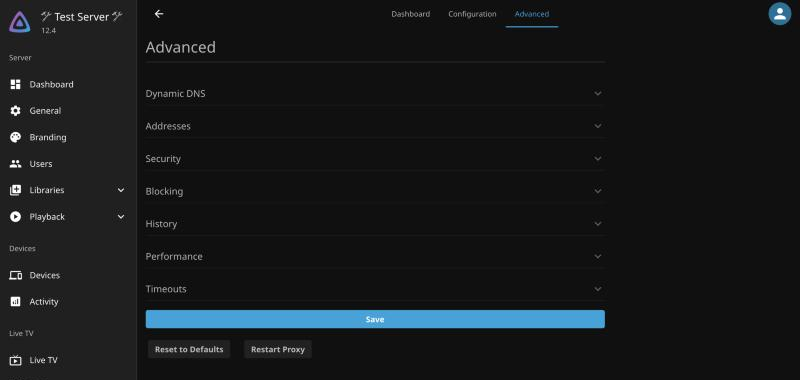
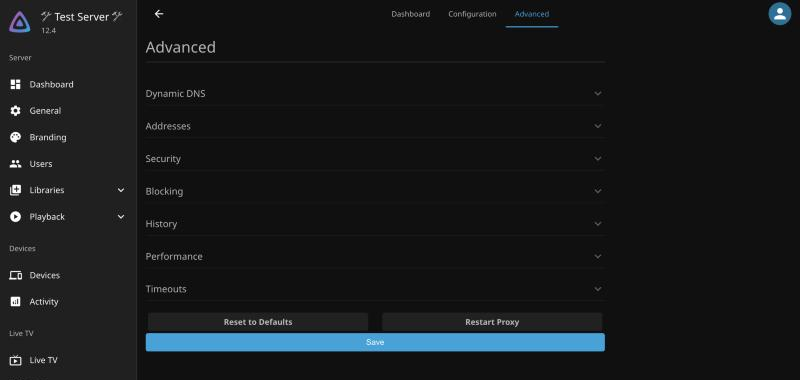
Save with Base's Save Bar, with its actions in one row above it, as the other plugins do

Changed region(s): [[0.1562, 0.8105, 0.7812, 0.9553]]

diff --git a/Jellyfin.Plugin.RemoteAccess/Configuration/remoteaccess_advanced.js b/Jellyfin.Plugin.RemoteAccess/Configuration/remoteaccess_advanced.js
@@ -1,7 +1,7 @@
 // remoteaccess_advanced.js
 // The Advanced tab: Dynamic DNS tuning, the record's finer settings, addresses, security, blocking, history and limits.
 
-import { createConfigPage, confirmDialog, createChipSelect, COUNTRY_CODES, WORLD } from './configurationpage?name=remoteaccess_jpkribs_shared.js';
+import { createConfigPage, confirmDialog, createChipSelect, createSaveBar, COUNTRY_CODES, WORLD } from './configurationpage?name=remoteaccess_jpkribs_shared.js';
 import { PLUGIN_ID, TABS, problemText, showText, loadProviders, primaryRecord, recordNames, otherAddresses, addressLines, saveProxyHostnames } from './configurationpage?name=remoteaccess_tabs.js';
 
 export default function (view) {
@@ -26,6 +26,8 @@ export default function (view) {
     var countryDatabaseLoaded = true;
     // The proxy settings as last loaded or saved, for the certificate request.
     var proxySettings = null;
+    // The Save Bar at the bottom of the page, built once in bind.
+    var saveBar = null;
     // The Dynamic DNS fine-tuning, saved through the DDNS configuration rather than the proxy settings. The form
     // as last loaded or saved, to tell whether it changed. Null until loaded.
     var raBaseline = null;
@@ -519,58 +521,55 @@ export default function (view) {
                 fillHostnames((results[1] && results[1].Hostnames) || [], names);
             });
         }).catch(function () {
-            Shared.setStatus('advancedStatus', 'Could not load settings.', true);
+            saveBar.setState('failed', 'Could not load the settings. Reload the page.');
         });
     }
 
+    // save
+    // The Save Bar's onSave. Turning on Only Through the Proxy can cut off whoever uses Jellyfin's own address, this
+    // page included, so it is confirmed first.
+    //
+    // Output
+    // [Promise]: Resolves once saved, or rejects with an Error whose message the Save Bar shows.
     function save() {
         // Without the saved values to compare against, every field would look changed and be written empty.
-        if (!settingsLoaded) {
-            Shared.setStatus('advancedStatus', 'The settings did not load. Reload the page before saving.', true, { timeout: 0 });
-            return;
-        }
+        if (!settingsLoaded) return Promise.reject(new Error('The settings did not load. Reload the page before saving.'));
 
-        // Turning this on can cut off whoever is using Jellyfin's own address, this page included, so it is confirmed.
         var current = read();
         var effective = function (v) { return v == null ? !!(defaults && defaults.JellyfinLoopbackOnly) : v; };
-        if (effective(current.JellyfinLoopbackOnly) && !effective(loaded.JellyfinLoopbackOnly)) {
-            confirmDialog('Turn on Only Through the Proxy? Everyone, at home too, reaches Jellyfin only through your Remote Access address, so apps and casting that use the server\'s own address stop working. Use Undo before disabling the plugin, and see Recovery in the documentation if you lose access.', { title: 'Only Through the Proxy', confirmText: 'Turn On' }).then(function (ok) {
-                if (ok) doSave();
-            });
-            return;
-        }
-
-        doSave();
+        if (!effective(current.JellyfinLoopbackOnly) || effective(loaded.JellyfinLoopbackOnly)) return doSave();
+        return confirmDialog('Turn on Only Through the Proxy? Everyone, at home too, reaches Jellyfin only through your Remote Access address, so apps and casting that use the server\'s own address stop working. Use Undo before disabling the plugin, and see Recovery in the documentation if you lose access.', { title: 'Only Through the Proxy', confirmText: 'Turn On' }).then(function (ok) {
+            if (!ok) throw new Error('Nothing was saved.');
+            return doSave();
+        });
     }
 
+    // doSave
+    // Saves the Dynamic DNS settings and the record first, so the proxy's addresses follow the record's names as now
+    // saved, then the proxy and history settings. Each goes to its own endpoint, so one failing never stops the other.
+    //
+    // Output
+    // [Promise]: Resolves once both saved, or rejects with an Error that names what was not saved.
     function doSave() {
-        var button = Shared.getEl('btnSaveAdvanced');
-        if (button.disabled) return;
-        button.disabled = true;
-        Shared.setStatus('advancedStatus', 'Saving…', false);
         var raChanged = raDirty() || recordDirty() || extraCount > 0;
         var before = [];
         var raError = '';
-        // The DDNS settings and the record save first, so the proxy's addresses follow the record's names as now
-        // saved. Each save goes to its own endpoint, so one failing never stops the other, and both are reported.
-        namesNow().then(function (names) {
+        return namesNow().then(function (names) {
             before = names;
             return saveDdns();
         }).then(function (error) {
             raError = error;
             return saveProxy(before);
         }).then(function (proxy) {
-            if (!raError) {
-                var done = proxy.ok || !raChanged ? proxy.text
-                    : 'The proxy settings were not saved. ' + proxy.text + ' The Dynamic DNS settings were saved.';
-                Shared.setStatus('advancedStatus', done, proxy.bad, proxy.keep ? { timeout: 0 } : undefined);
+            if (!raError && proxy.ok) {
+                saveBar.setDirty(false);
+                // A restart note or skipped history settings follow the saved line, once the Save Bar has drawn it.
+                if (proxy.keep) setTimeout(function () { saveBar.setState(proxy.bad ? 'failed' : 'saved', proxy.text); }, 0);
                 return;
             }
-            var text = (proxy.ok ? proxy.text : 'The proxy settings were not saved. ' + proxy.text) +
-                ' The Dynamic DNS settings were not saved. ' + raError;
-            Shared.setStatus('advancedStatus', text, true, { timeout: 0 });
-        }).then(function () {
-            button.disabled = false;
+            var text = !raError ? 'The proxy settings were not saved. ' + proxy.text + (raChanged ? ' The Dynamic DNS settings were saved.' : '')
+                : (proxy.ok ? proxy.text : 'The proxy settings were not saved. ' + proxy.text) + ' The Dynamic DNS settings were not saved. ' + raError;
+            throw new Error(text);
         });
     }
 
@@ -608,7 +607,7 @@ export default function (view) {
             // History settings that never loaded were not sent, so the page does not claim to have saved them.
             var skipped = !historyLoaded;
             loadHistory();
-            var text = 'Saved.' + (skipped ? ' The history settings did not load, so they were not saved.' : '') + (restartNote ? ' ' + restartNote : '');
+            var text = 'Changes saved.' + (skipped ? ' The history settings did not load, so they were not saved.' : '') + (restartNote ? ' ' + restartNote : '');
             return { ok: true, bad: skipped, keep: skipped || !!restartNote, text: text };
         }).catch(function (err) {
             return problemText(err, 'Save failed.').then(function (text) {
@@ -645,7 +644,11 @@ export default function (view) {
         Shared.getEl('countryPicker').appendChild(countries.element);
         Shared.getEl('advCountryMode').addEventListener('change', showCountryMode);
         Shared.getEl('advBlockWithoutDatabase').addEventListener('change', showCountryMode);
-        Shared.getEl('btnSaveAdvanced').addEventListener('click', save);
+        saveBar = createSaveBar({ fill: true, form: Shared.getEl('RemoteAccessAdvancedForm'), onSave: save });
+        Shared.getEl('saveBar').appendChild(saveBar.element);
+        ['input', 'change'].forEach(function (type) {
+            view.addEventListener(type, function () { saveBar.setDirty(isDirty()); });
+        });
         Shared.getEl('btnResetAdvanced').addEventListener('click', reset);
         Shared.getEl('btnRestartProxy').addEventListener('click', restartProxy);
         Shared.getEl('locationDetail').addEventListener('change', showLocationNote);

diff --git a/Jellyfin.Plugin.RemoteAccess/Configuration/remoteaccess_configuration.js b/Jellyfin.Plugin.RemoteAccess/Configuration/remoteaccess_configuration.js
@@ -1,7 +1,7 @@
 // remoteaccess_configuration.js
 // The Configuration tab, a Setup Checklist from turning the proxy on to a test from outside.
 
-import { createConfigPage, confirmDialog, createSetupChecklist } from './configurationpage?name=remoteaccess_jpkribs_shared.js';
+import { createConfigPage, confirmDialog, createSetupChecklist, createSaveBar } from './configurationpage?name=remoteaccess_jpkribs_shared.js';
 import { PLUGIN_ID, TABS, problemText, showText, trustTheProxy, routerInstructionHtml, routerStateText, loadProviders, primaryRecord, readDdnsSecret, recordNames, saveProxyHostnames, stepState } from './configurationpage?name=remoteaccess_tabs.js';
 
 // The Configuration tab: a checklist from turning the proxy on to a test from outside. Each step holds only what
@@ -60,8 +60,9 @@ export default function (view) {
 
     var SECRET_IDS = ['recLogin', 'recPassword'];
     var CLEAR_BUTTONS = { recLogin: 'btnClearLogin', recPassword: 'btnClearPassword' };
-    // The Setup Checklist that holds the steps, built once in bind.
+    // The Setup Checklist that holds the steps, and the Save Bar under them, built once in bind.
     var checklist = null;
+    var saveBar = null;
 
     // The plugin's own config endpoints send a kept marker in place of a stored credential and encrypt a typed one
     // on save, so secrets never reach the browser.
@@ -439,24 +440,27 @@ export default function (view) {
     }
 
     function setSaving(on) {
-        ['btnSave', 'btnRunNow'].forEach(function (id) { Shared.getEl(id).disabled = on; });
+        Shared.getEl('btnRunNow').disabled = on;
     }
 
     // Saves every step: the record first, when it changed, then the proxy settings onto the freshest ones so
     // changes made on the other tabs are kept. The proxy answers on the record's names and the other addresses.
+    // save
+    // Saves every step, the Save Bar's onSave. The record goes first, when it changed, then the proxy settings onto
+    // the freshest ones so changes made on the other tabs are kept. The proxy answers on the record's names and the
+    // other addresses.
+    //
+    // Output
+    // [Promise]: Resolves once saved, or rejects with an Error whose message the Save Bar shows.
     function save() {
         // Let's Encrypt is only used once its terms are accepted, so with the proxy on the box has to be ticked to
         // choose it.
         if (Shared.getEl('enabled').checked && Shared.getEl('certMode').value === 'Automatic' && !Shared.getEl('certTerms').checked) {
-            Shared.setStatus('saveStatus', 'Turn on Accept the Let\'s Encrypt Terms in step 3, or select another certificate source.', true, { timeout: 0 });
             setStepOpen('Certificate');
-            return Promise.resolve(false);
+            return Promise.reject(new Error('Turn on Accept the Let\'s Encrypt Terms in step 3, or select another certificate source.'));
         }
 
-        var button = Shared.getEl('btnSave');
-        if (button.disabled) return Promise.resolve(false);
         setSaving(true);
-        Shared.setStatus('saveStatus', 'Saving…', false);
         var recordSaved = false;
         var changedRecord = recordNeedsSave();
         var before = [];
@@ -469,20 +473,17 @@ export default function (view) {
         }).then(function (result) {
             if (result && result.Settings) fill(result.Settings);
             if (result && result.Status) render(result.Status);
-            Shared.setStatus('saveStatus', 'Saved.', false);
-            return true;
+            saveBar.setDirty(false);
         }).catch(function (err) {
-            var reply = err && err.pageText ? Promise.resolve(err.pageText) : problemText(err, 'Save failed.');
+            var reply = err && err.pageText ? Promise.resolve(err.pageText) : problemText(err, 'Could not save.');
             return reply.then(function (text) {
                 var prefix = !recordSaved ? (changedRecord ? 'The record was not saved. ' : '')
                     : changedRecord ? 'The record was saved, but the proxy settings were not. ' : '';
-                Shared.setStatus('saveStatus', prefix + text, true, { timeout: 0 });
-                return false;
+                throw new Error(prefix + text);
             });
-        }).then(function (ok) {
+        }).finally(function () {
             setSaving(false);
             refresh();
-            return ok;
         });
     }
 
@@ -510,7 +511,7 @@ export default function (view) {
         var button = Shared.getEl('btnTrust');
         if (button.disabled) return;
         button.disabled = true;
-        trustTheProxy(Shared, 'trustStatus', save).then(function () {
+        trustTheProxy(Shared, 'trustStatus', function () { return saveBar.save(); }).then(function () {
             button.disabled = false;
             refresh();
         });
@@ -947,7 +948,11 @@ export default function (view) {
         Shared.getEl('btnRestore').addEventListener('click', restore);
         Shared.getEl('btnReach').addEventListener('click', testReach);
 
-        Shared.getEl('btnSave').addEventListener('click', save);
+        saveBar = createSaveBar({ fill: true, form: Shared.getEl('RemoteAccessConfigurationForm'), onSave: save });
+        Shared.getEl('saveBar').appendChild(saveBar.element);
+        ['input', 'change'].forEach(function (type) {
+            view.addEventListener(type, function () { saveBar.setDirty(isDirty()); });
+        });
     }
 
     Shared = createConfigPage(view, {

diff --git a/Jellyfin.Plugin.RemoteAccess/Configuration/remoteaccess_advanced.html b/Jellyfin.Plugin.RemoteAccess/Configuration/remoteaccess_advanced.html
@@ -314,10 +314,10 @@
                             </div>
                             <div id="locationStatus" class="base-info"></div>
                             <div class="base-button-row">
-                                <button is="emby-button" type="button" id="btnUpdateLocation" class="raised base-button secondary">
+                                <button is="emby-button" type="button" id="btnUpdateLocation" class="raised base-button secondary fill">
                                     <span>Refresh Locations</span>
                                 </button>
-                                <button is="emby-button" type="button" id="btnDeleteAll" class="raised base-button destructive">
+                                <button is="emby-button" type="button" id="btnDeleteAll" class="raised base-button destructive fill">
                                     <span>Clear History</span>
                                 </button>
                             </div>
@@ -395,21 +395,18 @@
                         </div>
                     </div>
 
-                    <div class="inputContainer">
-                        <button is="emby-button" type="button" id="btnSaveAdvanced" class="raised base-button primary fill">
-                            <span>Save</span>
-                        </button>
-                        <span id="advancedStatus" class="base-status-text" aria-live="polite"></span>
-                    </div>
+                    <!-- Save -->
+                    <!-- Reset and Restart go with the Save, in one row directly above it. -->
+                    <span id="restartStatus" class="base-status-text" role="status"></span>
                     <div class="base-button-row">
-                        <button is="emby-button" type="button" id="btnResetAdvanced" class="raised base-button secondary">
+                        <button is="emby-button" type="button" id="btnResetAdvanced" class="raised base-button secondary fill">
                             <span>Reset to Defaults</span>
                         </button>
-                        <button is="emby-button" type="button" id="btnRestartProxy" class="raised base-button secondary">
+                        <button is="emby-button" type="button" id="btnRestartProxy" class="raised base-button secondary fill">
                             <span>Restart Proxy</span>
                         </button>
                     </div>
-                    <span id="restartStatus" class="base-status-text" aria-live="polite"></span>
+                    <div id="saveBar"></div>
 
                 </div>
             </form>

diff --git a/Jellyfin.Plugin.RemoteAccess/Configuration/remoteaccess_configuration.html b/Jellyfin.Plugin.RemoteAccess/Configuration/remoteaccess_configuration.html
@@ -196,13 +196,9 @@
 
                     </div>
 
-                    <!-- Saves every step: the record in step 2 and the proxy settings. -->
-                    <div class="inputContainer">
-                        <button is="emby-button" type="button" id="btnSave" class="raised base-button primary fill">
-                            <span>Save</span>
-                        </button>
-                        <span id="saveStatus" class="base-status-text" role="status"></span>
-                    </div>
+                    <!-- Save -->
+                    <!-- Saves every step, the record in step 2 and the proxy settings. -->
+                    <div id="saveBar"></div>
 
                 </div>
             </form>

diff --git a/skills/style.md b/skills/style.md
@@ -278,17 +278,22 @@ Every config page uses Jellyfin's page shell.
 
 Pick one model per page and keep it.
 
-| Model | Use it when | Save button |
+| Model | Use it when | Save |
 | :--- | :--- | :--- |
-| One Save per page | Settings depend on each other | `raised base-button primary fill` at the bottom |
-| One Save per section | Sections are independent and long | `raised base-button primary small` in `base-collapsible-actions flush` |
-
-Configuration and Advanced each have one Save per page, since a save there writes the record and the proxy settings together.
+| One Save per page | Settings depend on each other | One Save Bar, the last thing on the page |
+| One Save per section | Sections are independent and long | One Save Bar, the last thing in each section's content |
 | Editor dialog | Each record is edited on its own | **Done** in `openEditorDialog` |
 
-* Track unsaved changes with `createChangeTracker` and the `base-unsaved` indicator, which reads "Unsaved".
+Every page and section Save is the same:
+
+1. It is Base's `createSaveBar` with `fill: true`. Its button reads **Save**, never **Save Settings** or a noun.
+2. The Save Bar is the last element of what it saves. Nothing sits beside it or below it in that section.
+3. Any other actions that belong with that Save, such as **Reset to Defaults**, **Restart**, or **Test**, go in one `<div class="base-button-row">` directly above it. Each is `raised base-button secondary fill`, or `destructive fill` for one that deletes or resets data. A select that belongs there stays a normal `emby-select` in the row. No `small` buttons in that row.
+4. Never hand place a Save button, a small Save, a Save Bar without `fill`, or a status line or unsaved indicator of its own beside it. No plugin CSS positions a Save or its neighbours.
+
+* Call `setDirty` on the Save Bar on every input and change, from `createChangeTracker` or the page's own check.
+* `onSave` returns the save's promise. It rejects with an Error holding the reason, and the Save Bar shows it.
 * Guard leaving the page with `page.guardUnsaved`.
-* Report the result with `shared.setStatus` next to the button.
 * Save through this plugin's own `Configuration` and `Proxy/Settings` endpoints, never `ApiClient.updatePluginConfiguration`, so credentials are encrypted and kept.
 
 ## Components
@@ -341,6 +346,7 @@ grep -o "export function create[A-Za-z]*" ~/.nuget/packages/jpkribs.jellyfin.bas
 | Destructive action | `raised base-button destructive` |
 | Secondary action | `raised base-button secondary` |
 | Compact action in a section | add `small` |
+| Actions that go with a Save | `raised base-button secondary fill`, or `destructive fill`, in one `base-button-row` directly above the Save Bar |
 | Icon and label in a toolbar | `raised base-button` holding a `material-icons` span and a label |
 | Icon only in a row | `base-row-btn`, with `.dirty` for unsaved and `.success` after saving |
 

diff --git a/skills/code.md b/skills/code.md
@@ -31,6 +31,7 @@ How to write, comment, and test code in this plugin. It covers C#, JavaScript, H
 | Text from outside, for a log or the settings file | `FormatUtilities.SanitizeForLog` |
 | The clock | `TimeProvider`, and `UtcTime` for stored times |
 | Config page lifecycle | `createConfigPage` |
+| Saving a page | `createSaveBar` with `fill: true`, per [style.md](style.md#saving) |
 | Dialogs | `confirmDialog`, `promptDialog`, `openDialog` |
 | A setup in steps that each have a state | `createSetupChecklist` |
 | Counts by country | `createWorldMap` and `linkWorldMap`, with `COUNTRY_CODES` and `WORLD` for country names |
